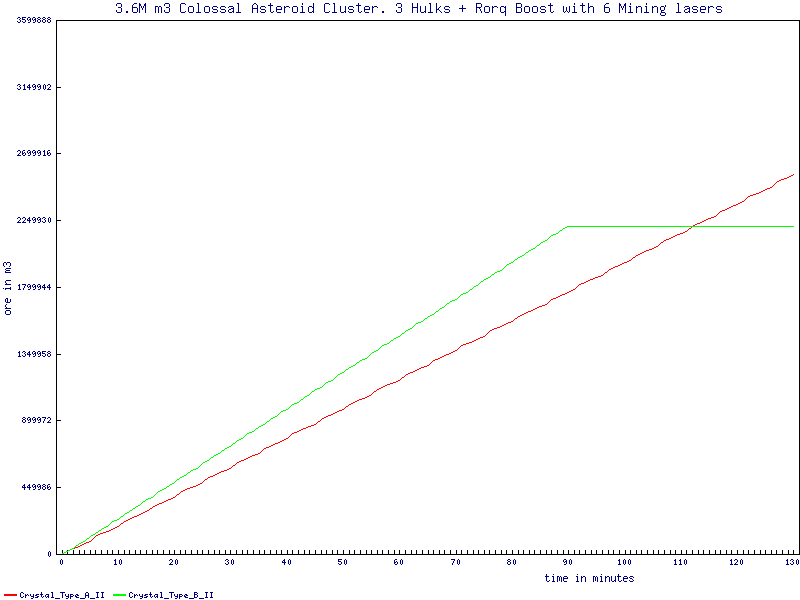
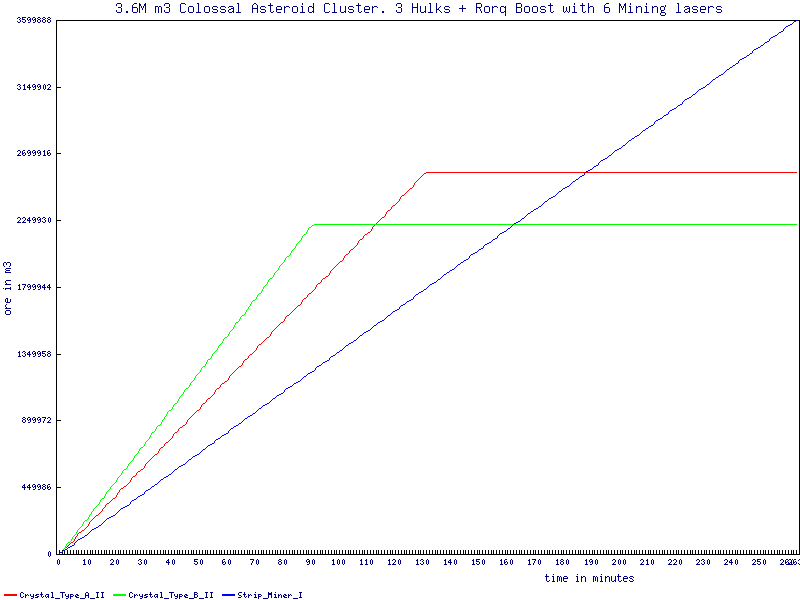
19.11#1 added strip_mine_1 in residue example

diff --git a/README.md b/README.md
@@ -22,13 +22,17 @@ This example Scenario consists of three Hulks with Rorqual Boost mining a Coloss
 
 |Crystal Type|Cluster Depleted|Ore Mined|
 |:-|:-|:-|
-|Crystal_Type_A_II|130 min|2.556M m3|
-|Crystal_Type_B_II|88 min|2.176M m3|
+|strip_miner_I|263 min| 3.598 m3|
+|Crystal_Type_A_II|131 min| 2.571 m3|
+|Crystal_Type_B_II|90 min| 2.217 m3|
 
+Choosing _Crystal Type A_ over Crystal Type B results in:
+1. Additional time needed to deplete the ore site: 40 min (31.18%)
+2. Additional ore gathered after completing the mining operation: 0.354M (13.77%)
 
-In this example choosing Crystal Type A with a lower mining yield per second results in:
-1. Additional time needed to deplete the ore site with type A: 42 min (32.04%)
-2. Additional ore gathered after completing the mining operation with type A: 0.403M (15.44%)
+Choosing _Strip_Miner_I_ over Crystal Type B results in:
+1. Additional time needed to deplete the ore site: 172 min (65.70%)
+2. Additional ore gathered after completing the mining operation: 1.381M (38.37%)
 
 The chart below shows the content of the mining hold filled by the three Hulks over time.
 
